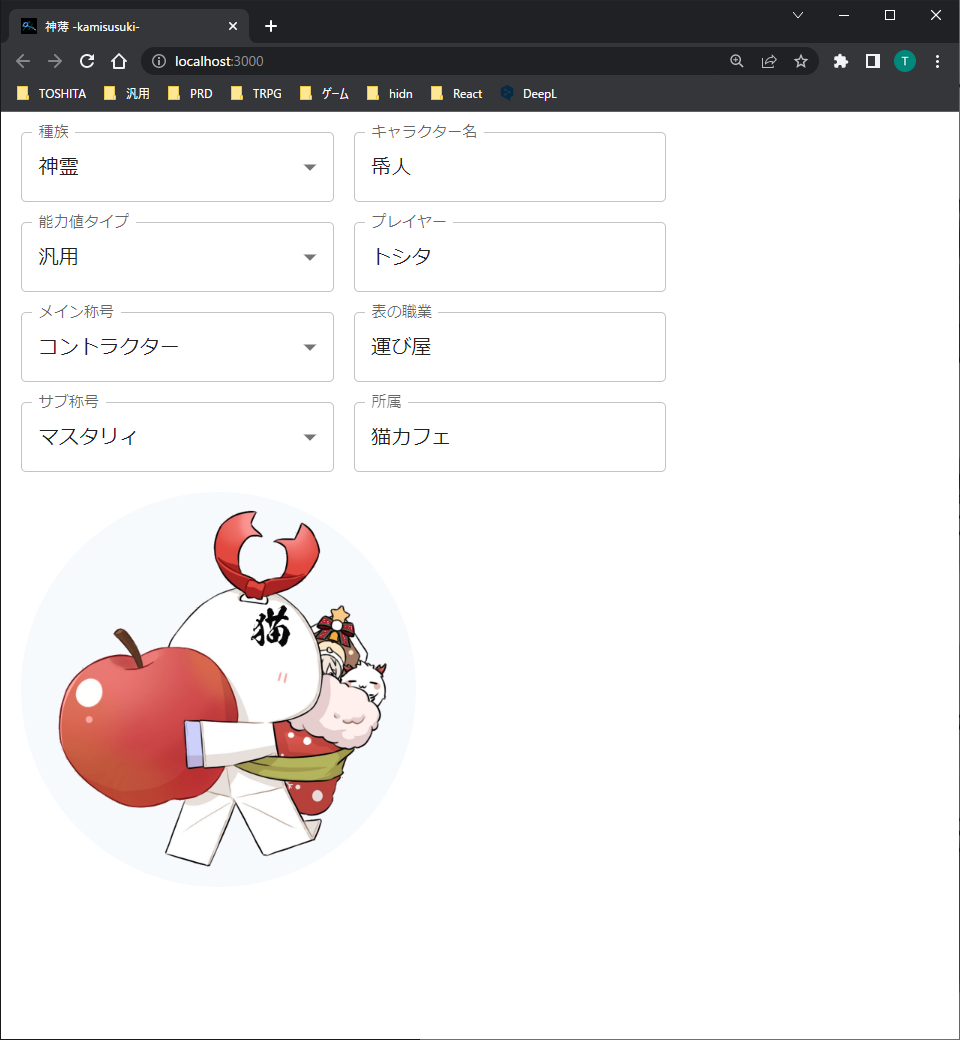
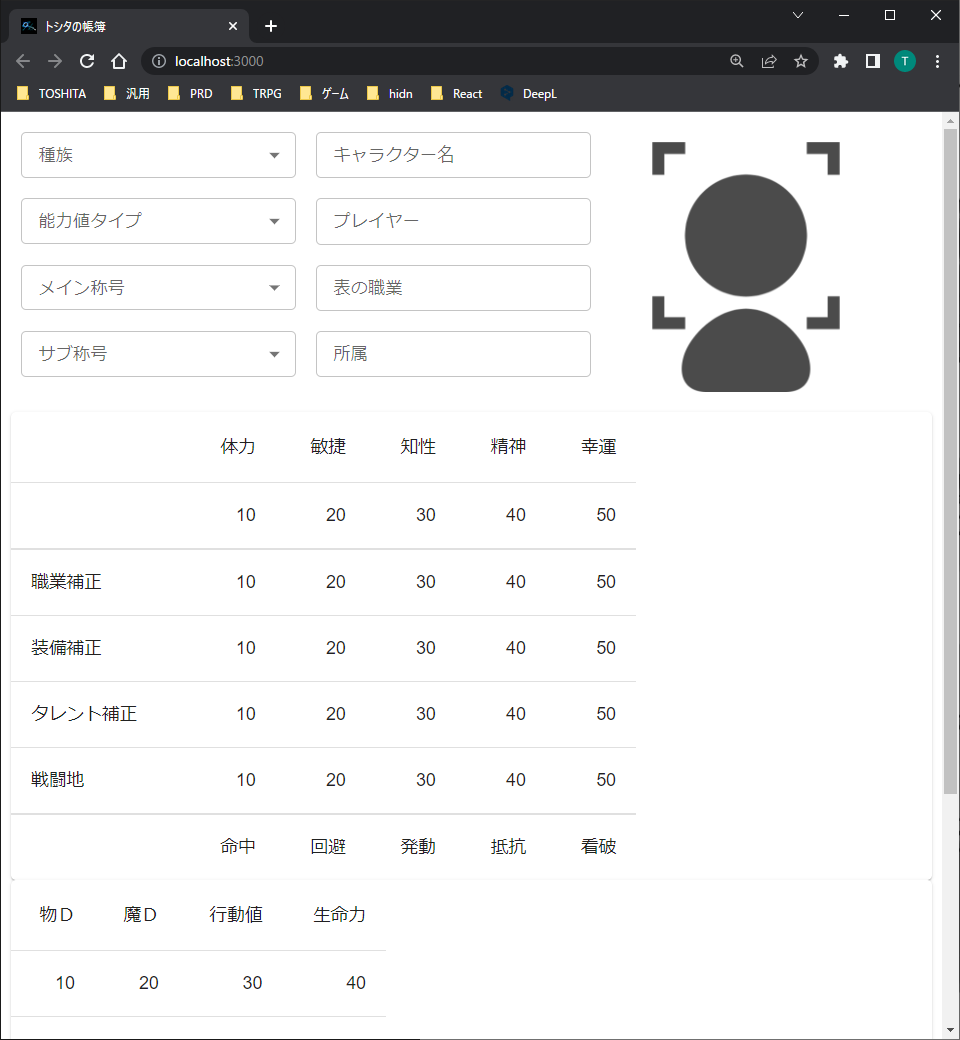
readme 更新

diff --git a/README.md b/README.md
@@ -7,8 +7,10 @@
 ## 課題
 - コンポーネント配置の調整
 - 画像挿入時、画像の切り取りなどがおこなえるようにする
+- json からデータ構造を作成して読み込み
+- 表を編集できるようにしたい
 
-- データ構造
+## データ構造
 - 種族
   - 体力
   - 敏捷
